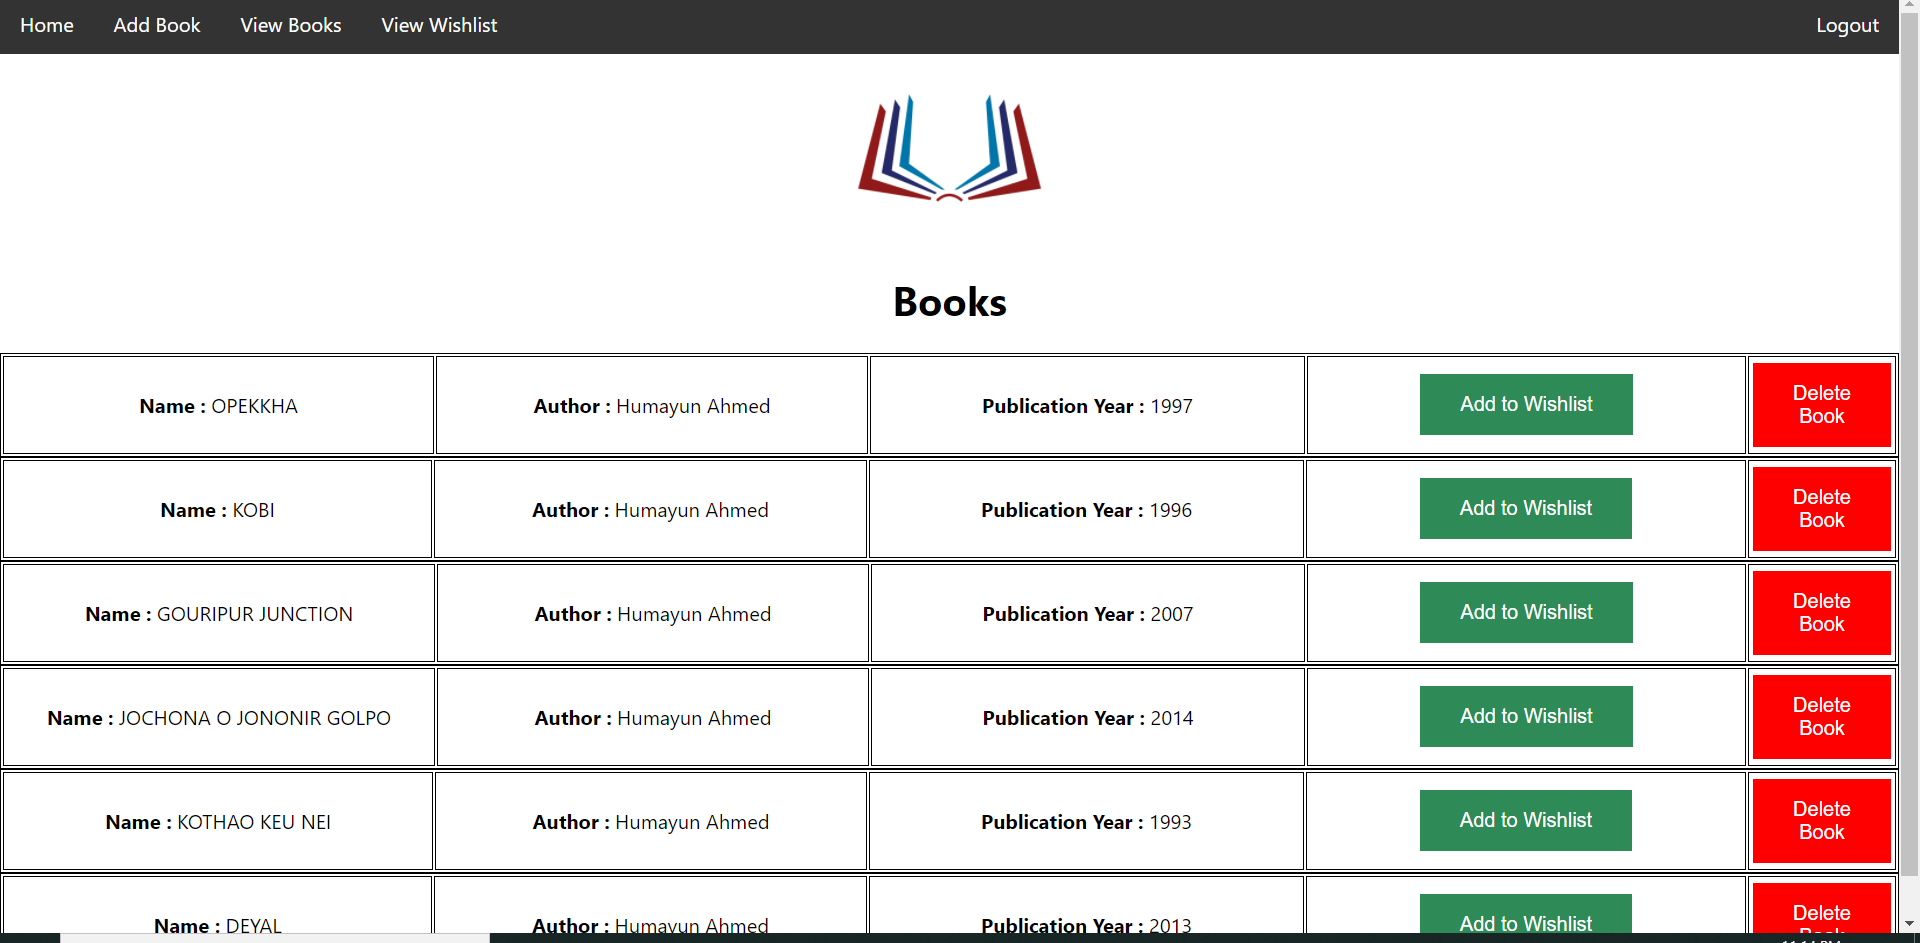
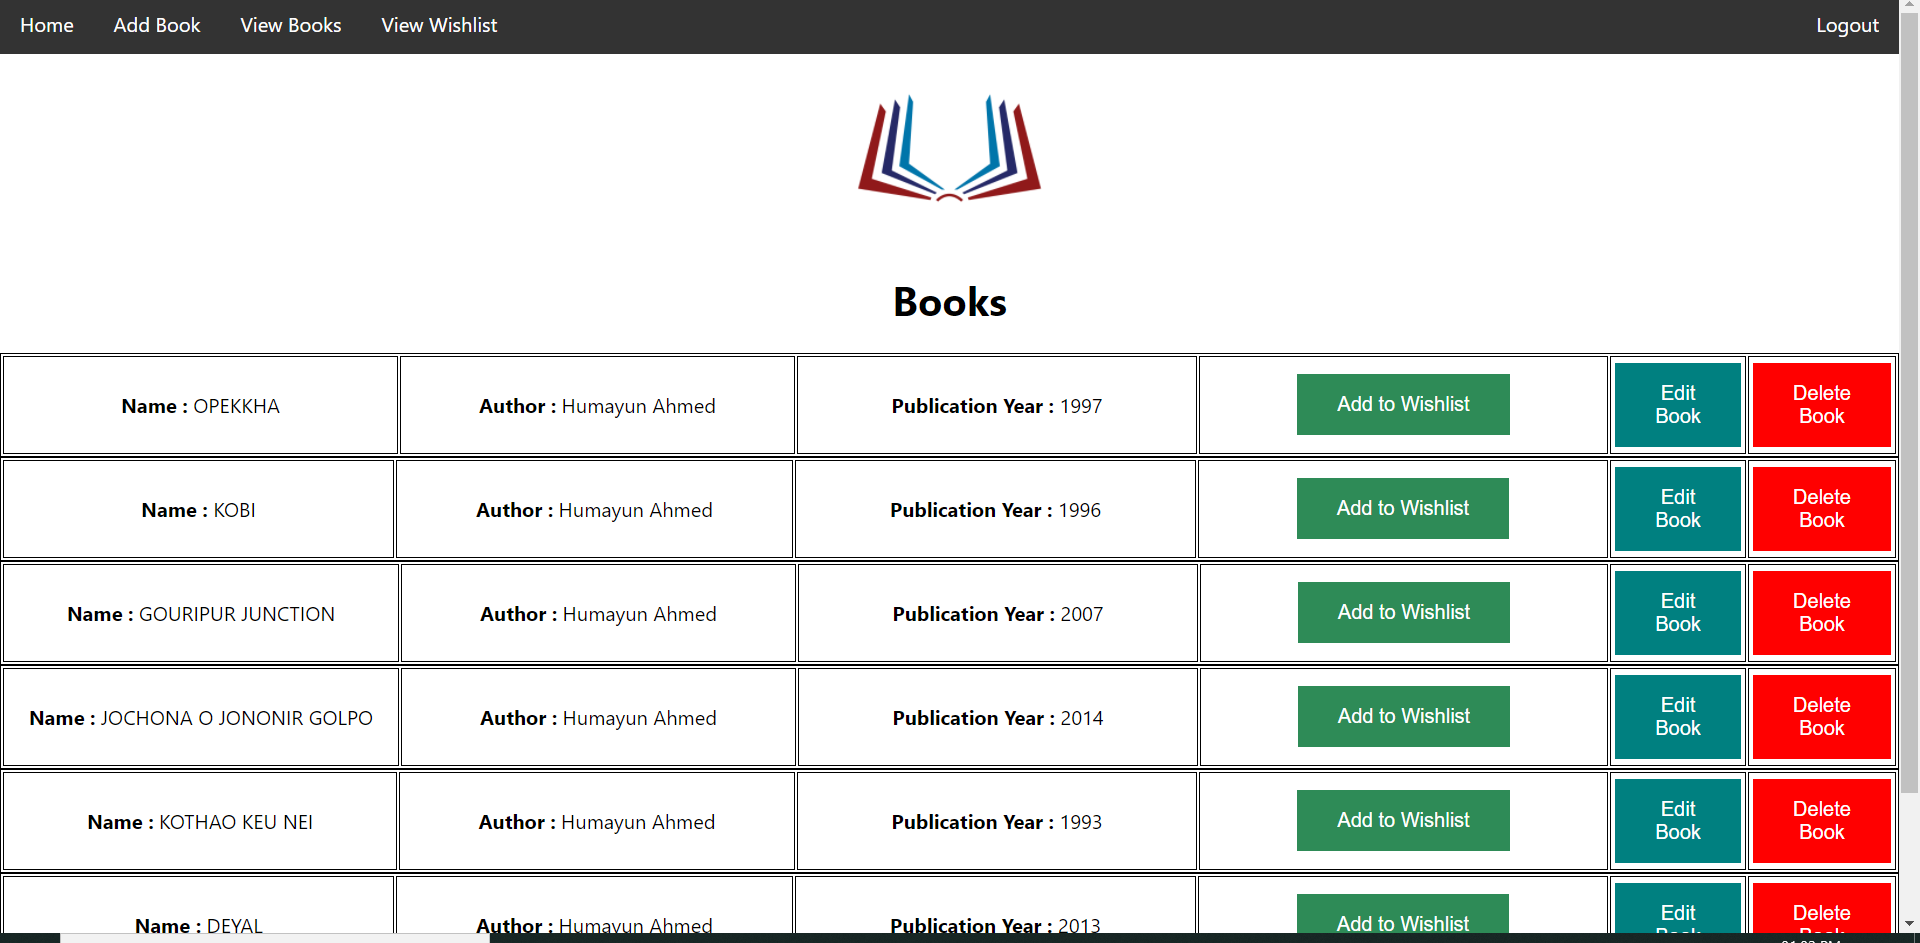
Updated Edit_Book.js

diff --git a/src/components/Edit_Book.js b/src/components/Edit_Book.js
@@ -1,9 +1,108 @@
 import React, { Component } from "react";
+import logo from "../images/book.png";
+import { Redirect } from "react-router-dom";
+
+var auth = JSON.parse(localStorage.getItem("auth"));
+var get = window.location.href;
+var parts = get.split("/");
+var book_id = parts[parts.length - 1];
 
 class Edit_Book extends Component {
+  constructor() {
+    super();
+    this.state = {
+      items: null,
+    };
+  }
+
+  componentDidMount() {
+    console.log("auth", auth);
+    var str = "http://127.0.0.1:5000/api/book/";
+    var link = str + book_id;
+    fetch(link, {
+      method: "GET",
+      headers: {
+        "x-access-token": auth,
+      },
+    }).then((result) => {
+      result.json().then((data) => {
+        console.log("data", data);
+        this.setState({ items: data.books });
+      });
+    });
+  }
+
+  editbook() {
+    console.warn("state", this.state);
+    var str = "http://127.0.0.1:5000/api/book/";
+    var link = str + book_id;
+    fetch(link, {
+      method: "PUT",
+      headers: {
+        // "Accept":"application/json",
+        "x-access-token": auth,
+        "Content-Type": "application/json",
+      },
+      body: JSON.stringify(this.state),
+    }).then((result) => {
+      result.json().then((resp) => {
+        // console.log(resp.token);
+        // localStorage.setItem("auth",JSON.stringify(resp.token))
+        window.location.reload();
+        {
+          <Redirect to="/book"></Redirect>;
+        }
+      });
+    });
+  }
+
   render() {
-    var get = window.location.href;
-    return <div>{get}</div>;
+    return (
+      <div>
+        <img src={logo} style={{ height: 150 }}></img>
+        <h1>Edit Book</h1>
+        <h2>(Only for Admin)</h2>
+        {this.state.items
+          ? this.state.items.map((item) => (
+              <div>
+                <label>
+                  <b>Name: </b>
+                </label>{" "}
+                <input
+                  defaultValue={item.name}
+                  onChange={(e) => {
+                    this.setState({ name: e.target.value });
+                  }}
+                ></input>{" "}
+                <br></br>
+                <label>
+                  <b>Author: </b>
+                </label>{" "}
+                <input
+                  defaultValue={item.author}
+                  onChange={(e) => {
+                    this.setState({ author: e.target.value });
+                  }}
+                ></input>{" "}
+                <br></br>
+                <label>
+                  <b>Publication Year: </b>
+                </label>{" "}
+                <input
+                  defaultValue={item.publication_year}
+                  onChange={(e) => {
+                    this.setState({ publication_year: e.target.value });
+                  }}
+                ></input>{" "}
+                <br></br>
+                <button id="button5" onClick={() => this.editbook()}>
+                  Edit Book
+                </button>
+              </div>
+            ))
+          : null}
+      </div>
+    );
   }
 }
 

diff --git a/src/index.css b/src/index.css
@@ -81,6 +81,11 @@ button {
   width: auto;
 }
 
+#button5{
+  background-color: red;
+  width: 10%;
+}
+
 
 input{
   width: 50%;
@@ -96,3 +101,5 @@ input{
   color: white;
   text-decoration: none;
 }
+
+label { display: inline-block; width: 10%; }
